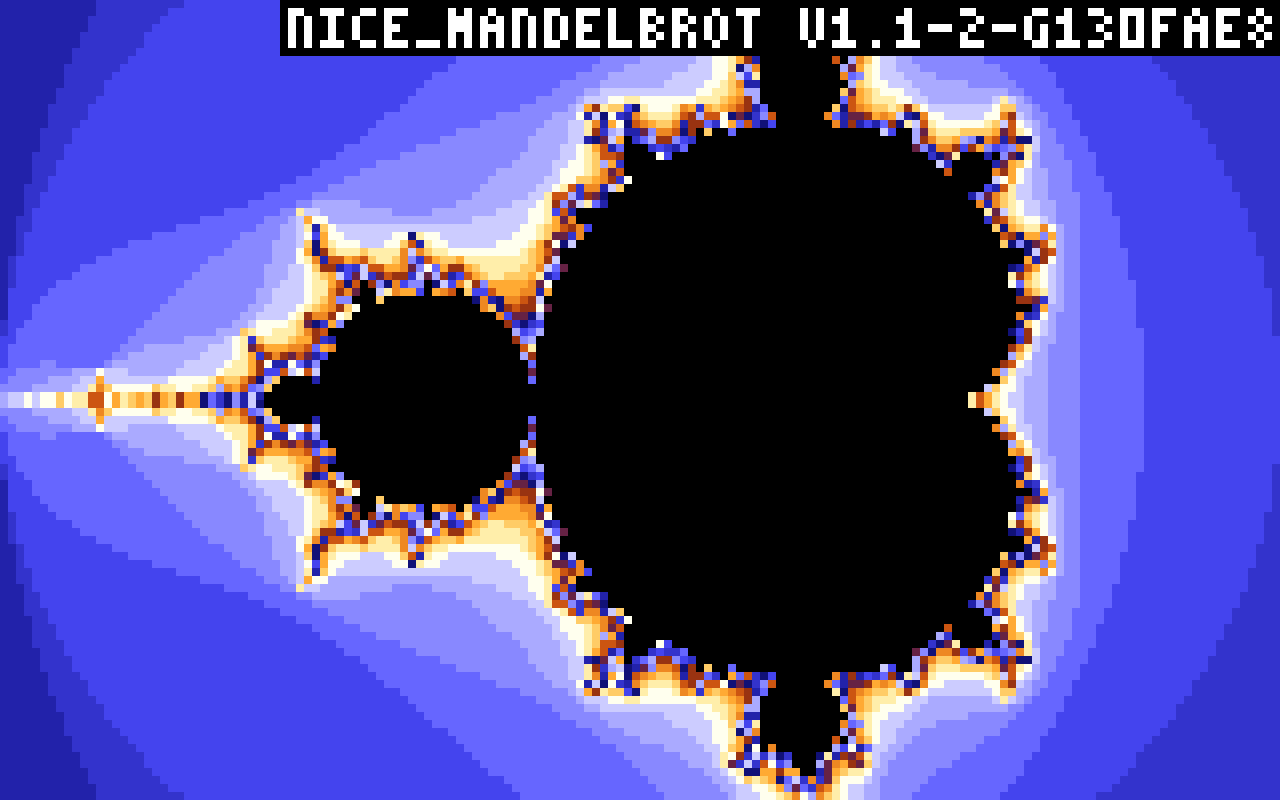
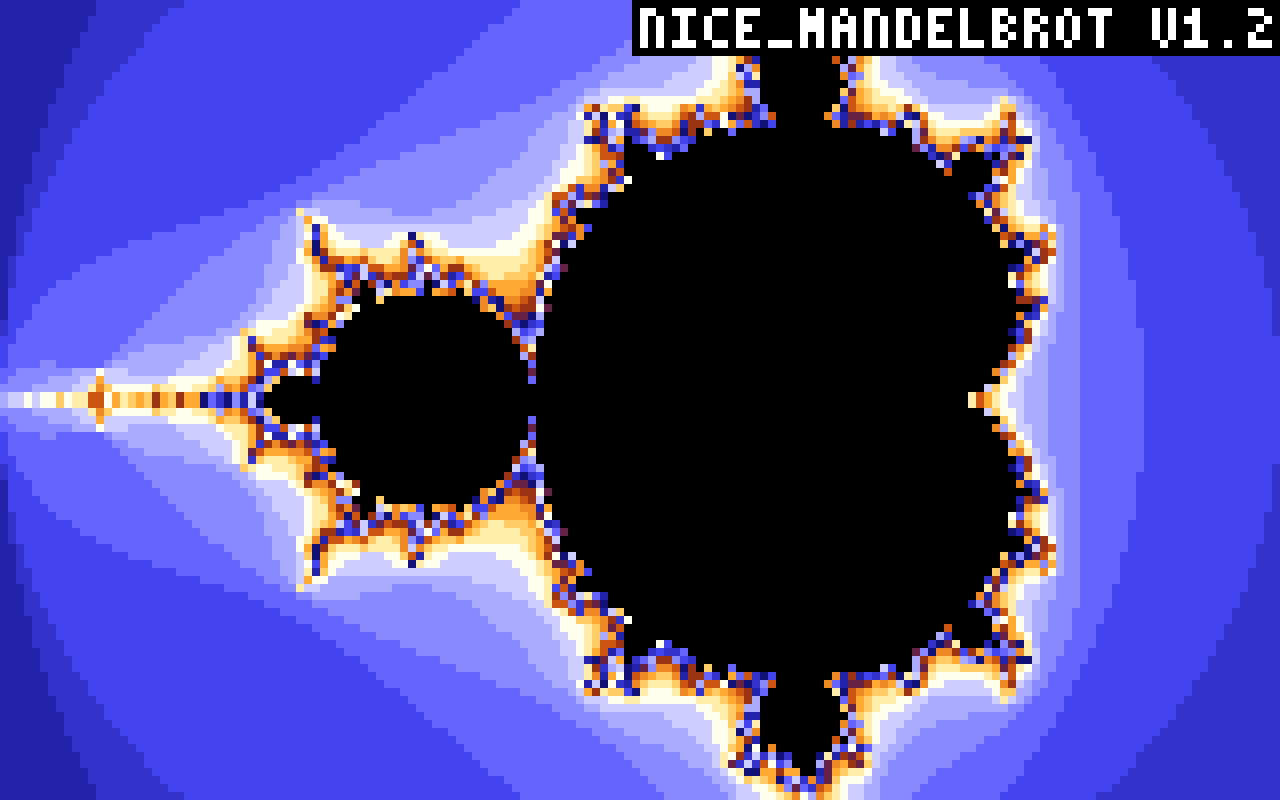
Prepare release V1.2: stage 4 is the file, with stage 3 beside it
NiceMonMEGA65 V2.3, whose screen has the chunky mode, is released, so
stage 4 becomes the file of a release, nice_mandelbrot_MAJOR.MINOR.bin.
Stage 3 is a second file, nice_mandelbrot_MAJOR.MINOR_stage3.bin, for
older monitors and the Nexys4DDR, which has no chunky mode. make dist
and release.yml make and upload both, and make board-run runs stage 4.

The README, RELEASE.md, and make help say so, and no longer wait for
NiceMonMEGA65 V2.3. RELEASE_NOTES.md has a draft of V1.2's section, and
the screenshots have its label.

Closes #1.

Changed region(s): [[0.2188, 0.0, 1.0, 0.0938]]

diff --git a/README.md b/README.md
@@ -7,23 +7,24 @@ the [NICE CPU](https://github.com/MJoergen/nice_cpu) on the MEGA65, and in
 `niceemu`. It is written in C first, and later in NICE BASIC, the
 interpreter planned for the ROM of NiceMonMEGA65.
 
-![Stage 3, the Mandelbrot set at 160×100](docs/stage3.png)
+![Stage 4, the Mandelbrot set at 160×100 in the chunky mode](docs/stage4.png)
 
-Stage 3 at 160×100, 1280×800 pixels, drawn from the screen that niceemu
+Stage 4 at 160×100, 1280×800 pixels, drawn from the screen that niceemu
 dumps after the run, with the name and the version in the top right
 corner.
 
 ## Download
 
 Each [release](https://github.com/MJoergen/nice_mandelbrot/releases)
-has one file for the MEGA65, such as `nice_mandelbrot_1.0.bin` of
-V1.0: stage 2 up to V1.0, and stage 3 from the release after it. It needs the monitor of
-NiceMonMEGA65 V2.1 or later. Stage 4, in the chunky mode, is not the
-file of a release yet, as it needs NiceMonMEGA65 V2.3, which is not
-released yet (The chunky mode, below). Copy it into the folder `NICE` of the SD
-card, and at the monitor's prompt type
+has a file for the MEGA65, such as `nice_mandelbrot_1.2.bin` of V1.2:
+stage 2 in V1.0, stage 3 in V1.1, and stage 4, in the chunky mode, from
+V1.2 on. Stage 4 needs the monitor of NiceMonMEGA65 V2.3 or later, on
+the MEGA65 (The chunky mode, below). From V1.2 on, a release also has
+stage 3 as `nice_mandelbrot_1.2_stage3.bin`, for NiceMonMEGA65 V2.1
+or later, and for the Nexys4DDR. Copy the file into the folder `NICE`
+of the SD card, and at the monitor's prompt type
 
-    load nice_mandelbrot_1.0.bin
+    load nice_mandelbrot_1.2.bin
     r
 
 [RELEASE_NOTES.md](RELEASE_NOTES.md) lists what each release changed,
@@ -69,10 +70,8 @@ stages 2 to 4 they are square, and the two steps are the same.
 
 Stage 4 needs the chunky mode of the screen, which nice_cpu has from
 V2.3 on (its DEVICES.md §1.10), and NiceMonMEGA65 from its V2.3 on, on
-the MEGA65 only. **NiceMonMEGA65 V2.3 is not quite released yet**, so
-for now stage 4 runs in niceemu, and on a MEGA65 with a build of
-NiceMonMEGA65's `dev-V2.3`. Stages 1 to 3 run on NiceMonMEGA65 V2.1
-and later, on the MEGA65 and the Nexys4DDR.
+the MEGA65 only. Stages 1 to 3 run on NiceMonMEGA65 V2.1 and later, on
+the MEGA65 and the Nexys4DDR.
 
 ![Stage 2, the Mandelbrot set at 80×50](docs/stage2.png)
 
@@ -135,7 +134,7 @@ to the console and returns 1, and the screen stays as it was.
 
 The font is not shown in the mode, so the label in the top right corner
 is drawn in the points, in capitals of 3×5 points, white on black:
-`NICE_MANDELBROT V1.0`.
+`NICE_MANDELBROT V1.2`.
 
 ## Estimated running times
 
@@ -199,14 +198,15 @@ and `NICEEMU=PATH` use a local checkout and niceemu instead.
                  # for stage 3 or 4; fetches niceemu's window build)
     make screenshot  # docs/stage2.png to docs/stage4.png, the screens in niceemu
                  # (needs Pillow)
-    make dist    # build/dist/nice_mandelbrot_1.0.bin, the file of a release (VERSION=V1.0)
+    make dist    # build/dist/nice_mandelbrot_1.2.bin, stage 4, and
+                 # nice_mandelbrot_1.2_stage3.bin, the files of a release (VERSION=V1.2)
 
 On the MEGA65 under NiceMonMEGA65's monitor, with a checkout of
 NiceMonMEGA65 for its tools (`NICEMON=DIR`, `../NiceMonMEGA65` by
 default), and the board on its Ethernet port (`ETH=IP`) or its debug
 UART (`PORT=DEVICE`):
 
-    make board-run       # stage 3 on the board (BOARD_STAGE=4 for stage 4)
+    make board-run       # stage 4 on the board (BOARD_STAGE=3 for stage 3)
     make board-test      # stages 2 to 4 on the board, their screens compared with the host's
     make release-check   # board-test, and the stamp of a release (docs/RELEASE.md)
 
@@ -290,10 +290,10 @@ The files:
 ## Status
 
 Stages 1 to 4 are written and run in niceemu, stages 2 to 4 with pan
-and zoom. Stage 3 is the file of a release; `make board-test` runs
-stages 2 to 4 on the board, where stages 3 and 4 draw the whole set in
-0.16 s and 0.15 s. Stage 4 has run on the MEGA65 with a build of
-NiceMonMEGA65's `dev-V2.3`. The NICE BASIC version is not written yet.
+and zoom. Stage 4 is the file of a release, with stage 3 beside it;
+`make board-test` runs stages 2 to 4 on the board, where stages 3 and 4
+draw the whole set in 0.16 s and 0.15 s. The NICE BASIC version is not
+written yet.
 In niceemu, stages 2 to 4 with the label of V1.0:
 
 | Stage | Count | Per point | Instructions | At 54 million a second | Without the test |

diff --git a/docs/RELEASE.md b/docs/RELEASE.md
@@ -24,12 +24,16 @@ tag.
 
 - An annotated tag, whose message is the tag's section of
   [RELEASE_NOTES.md](../RELEASE_NOTES.md).
-- A GitHub release with that section as its text, and one file:
-  `nice_mandelbrot_1.0.bin`, stage 3 for the MEGA65 under
-  NiceMonMEGA65's monitor. Its name is a long name, which the
+- A GitHub release with that section as its text, and two files for
+  NiceMonMEGA65's monitor: `nice_mandelbrot_1.2.bin`, stage 4, which
+  needs the chunky mode of NiceMonMEGA65 V2.3 or later on the MEGA65,
+  and `nice_mandelbrot_1.2_stage3.bin`, stage 3, for NiceMonMEGA65 V2.1
+  or later and the Nexys4DDR. Their names are long names, which the
   monitor's `load` takes from the SD card from NiceMonMEGA65 V2.1 on.
+  Up to V1.1, a release had one file, stage 2 in V1.0 and stage 3 in
+  V1.1.
 
-`make dist` makes it in `build/dist/`.
+`make dist` makes them in `build/dist/`.
 
 ## What you need
 
@@ -42,8 +46,7 @@ tag.
   (`PORT=DEVICE`), and a checkout of NiceMonMEGA65 for its tools
   (`NICEMON=DIR`, `../NiceMonMEGA65` by default). Stage 4 needs the
   chunky mode of the screen, which NiceMonMEGA65 has from V2.3 on, so
-  `make board-test` needs that monitor, or a build of its `dev-V2.3`
-  until V2.3 is released.
+  `make board-test` needs that monitor or a later one.
 
 ## 1. Prepare
 
@@ -104,7 +107,7 @@ not the tag. It differs from the release's only in that string, which
 the host's words have too.
 
 Also look at the picture on the board's screen: `make board-run`, then
-pan and zoom with the keys.
+pan and zoom with the keys, and `make board-run BOARD_STAGE=3`.
 
 ## 5. CI
 
@@ -132,35 +135,38 @@ pushes. By hand:
 The push of the tag starts
 [release.yml](../.github/workflows/release.yml). With `VERSION` set to
 the tag, it runs `make test`, then `make dist`, and creates the GitHub
-release with the section as its text, and the file. Wait for it, and
+release with the section as its text, and the files. Wait for it, and
 look at the release:
 
     gh run watch $(gh run list --workflow release.yml --limit 1 --json databaseId -q '.[0].databaseId')
-    gh release view V1.0
+    gh release view V1.2
 
 If it failed on a passing cause, such as the network, rerun it with
-`gh run rerun`. Otherwise run `make dist VERSION=V1.0` on a checkout of
+`gh run rerun`. Otherwise run `make dist VERSION=V1.2` on a checkout of
 the tag, and create the release by hand, as release.yml does:
 
-    python3 tools/release.py section V1.0 > section.md
+    python3 tools/release.py section V1.2 > section.md
     tail -n +2 section.md > notes.md
-    gh release create V1.0 --verify-tag --title "$(head -n 1 section.md)" \
-       --notes-file notes.md build/dist/nice_mandelbrot_1.0.bin
+    gh release create V1.2 --verify-tag --title "$(head -n 1 section.md)" \
+       --notes-file notes.md build/dist/nice_mandelbrot_1.2.bin \
+       build/dist/nice_mandelbrot_1.2_stage3.bin
 
-## 8. The file
+## 8. The files
 
-Try the file as a user gets it: download it, copy it into the folder
-`NICE` of the SD card, and on the MEGA65 type `load
-nice_mandelbrot_1.0.bin`, then `r`. The top right corner must say
-`nice_mandelbrot V1.0`.
+Try the files as a user gets them: download them, copy them into the
+folder `NICE` of the SD card, and on the MEGA65 type `load
+nice_mandelbrot_1.2.bin`, then `r`, and the same for
+`nice_mandelbrot_1.2_stage3.bin`. The top right corner must say
+`NICE_MANDELBROT V1.2` in stage 4, and `nice_mandelbrot V1.2` in
+stage 3.
 
-    gh release download V1.0 --dir build/release/V1.0
+    gh release download V1.2 --dir build/release/V1.2
 
-Without the card at hand, `tools/load.py` of NiceMonMEGA65 loads it
+Without the card at hand, `tools/load.py` of NiceMonMEGA65 loads them
 over the link:
 
     python3 ../NiceMonMEGA65/tools/load.py --eth 192.168.1.65 --monitor \
-        build/release/V1.0/nice_mandelbrot_1.0.bin
+        build/release/V1.2/nice_mandelbrot_1.2.bin
 
 A tag is never moved, and a release is not deleted. A fix is the next
 release, or the release notes say what is wrong.

diff --git a/RELEASE_NOTES.md b/RELEASE_NOTES.md
@@ -10,6 +10,38 @@ A release is named `Vmajor.minor`, and its file is
 Each section names the nice_cpu tag the release is built with, and the
 NiceMonMEGA65 release it was checked on.
 
+## V1.2 (2026-11-21)
+
+The Mandelbrot set at 160×100 in the chunky mode of the screen: each
+point in its own color, so the picture is exact also along the border
+of the set. The keys are those of V1.1.
+
+**What it needs**
+
+- `nice_mandelbrot_1.2.bin` needs the monitor of NiceMonMEGA65 V2.3 or
+  later, on the MEGA65, whose screen has the chunky mode. Copy it into
+  the folder `NICE` of the SD card, and type `load
+  nice_mandelbrot_1.2.bin`, then `r`. Without the mode, as under an
+  older monitor or on the Nexys4DDR, it says so on the monitor's line
+  and returns.
+- `nice_mandelbrot_1.2_stage3.bin` is V1.1's picture, with the octants,
+  for NiceMonMEGA65 V2.1 or later, on the MEGA65 and the Nexys4DDR.
+
+**What changed**
+
+- The file is stage 4: 160×100 points, each 8×8 pixels, one screen word
+  a point ([#1](https://github.com/MJoergen/nice_mandelbrot/issues/1)).
+  The points, the zooms, and the pans are those of V1.1, without the
+  approximate colors of its cells near the border. The whole set takes
+  some 0.15 s on the MEGA65 (9.8 million instructions).
+- The label in the top right corner is drawn in the points, in capitals:
+  `NICE_MANDELBROT V1.2`.
+- A release has two files: stage 3 is there too, as
+  `nice_mandelbrot_1.2_stage3.bin`.
+
+Built with nice_cpu V2.3. Checked on the MEGA65 under NiceMonMEGA65
+TODO.
+
 ## V1.1 (2026-11-15)
 
 The Mandelbrot set at 160×100, twice as fine in each direction as V1.0,
